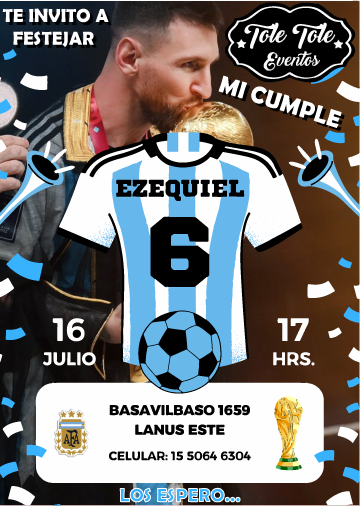
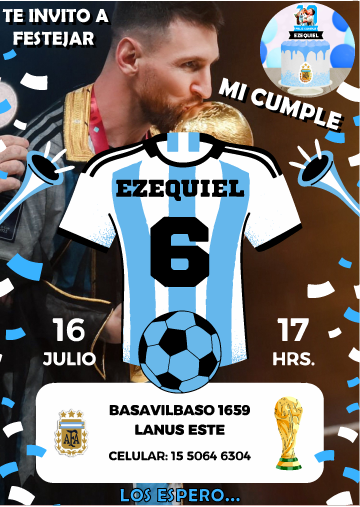
torta

diff --git a/index.html b/index.html
@@ -9,13 +9,9 @@
 </head>
 
 <body>
-    <!-- <div class="card">
-        <img src="img/Liam6.jpg" alt="Foto del cumpleañero/a">
-        <h1 class="title">¡Te invito a mi fiesta de cumpleaños!</h1>
-        <p class="details"><span>Fecha:</span> 17 de julio de 2023</p>
-        <p class="details"><span>Horario:</span> De 17:00 a 20:00 hs</p>
-        <p class="details"><span>Dirección:</span> Basavilbaso 1659, Lanus Este</p>
-    </div> -->
+    <h1 class="titulo">Tarjeta de Cumpleaños</h1>
+    <h2 class="titulo">Ezequiel Ramos</h2>
+    <img class="logo" src="img/logo.png" alt="Logo del salón de fiestas">
     <div class="card">
         <img src="img/tarjeta2.png" alt="Foto del cumpleañero/a">
     </div>

diff --git a/styles.css b/styles.css
@@ -11,6 +11,15 @@ body {
     overflow-y: auto;
 }
 
+.titulo {
+    font-size: 45px;
+    text-transform: uppercase;
+}
+
+.logo {
+    margin-bottom: 20px;
+}
+
 .card {
     background: #56CCF2;
     background: -webkit-linear-gradient(to right, #2F80ED, #56CCF2);
@@ -47,13 +56,14 @@ body {
 }
 
 .map-container {
+    max-width: 800px;
     width: 100%;
     text-align: center;
     position: relative;
     padding-bottom: 56.25%;
-    /* Proporción 16:9 (para mantener la relación de aspecto del mapa) */
     height: 0;
     overflow: hidden;
+    border-radius: 10px;
 }
 
 .map-container iframe {
